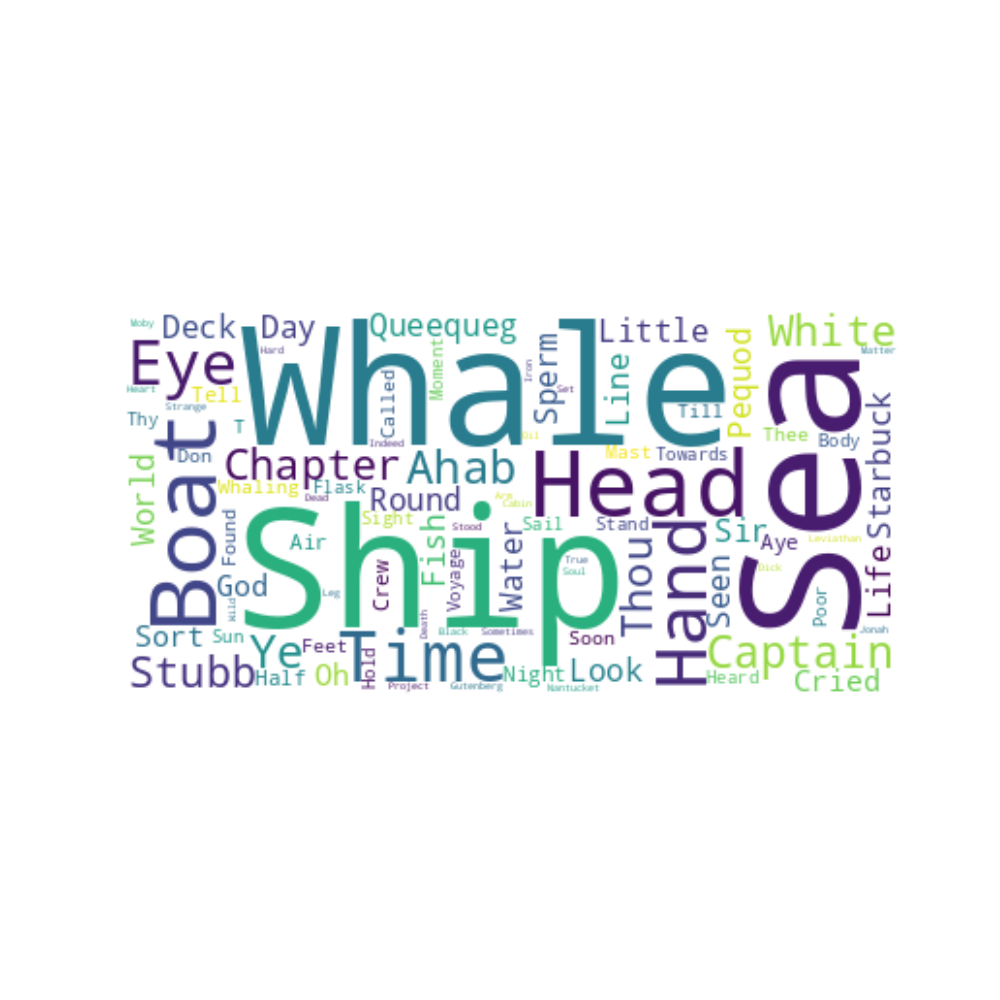
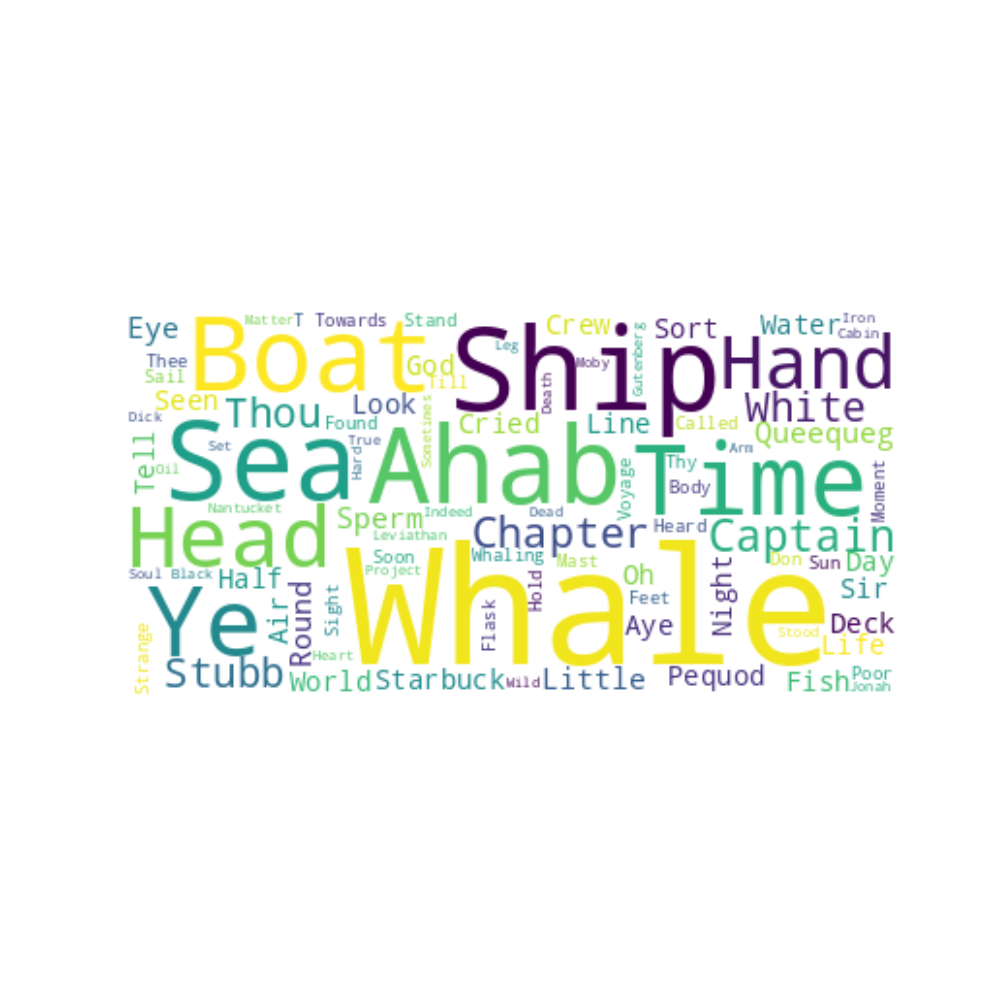
Code comments updated, Code cleaning and readablility increased

Changed region(s): [[0.124, 0.31, 0.899, 0.713]]

diff --git a/main.py b/main.py
@@ -12,7 +12,10 @@ def loading_data():
         stop_words = f.readlines()
     return text_book, stop_words
 
-''' preprocessing stop words taken from its text file to an array'''
+''' 
+stop_words: stop words are in array of text format as read from file
+returns: stop_word_preprocessed: stop_words in list format
+'''
 def preprocessing_stop_words(stop_words):
     stop_word_preprocessed = []
     is_start = False
@@ -22,12 +25,17 @@ def preprocessing_stop_words(stop_words):
             is_start = True
         # if is_start = True depicts stop words can be analysed after 'a' text is analysed in the file.
         # stop words are >= 2 which will ignore "\n" from the list
-        # "stop_word_raw not in stop_word_preprocessed" is used for getting only unique stop words
-        if is_start and len(stop_word_raw) >= 2 and stop_word_raw not in stop_word_preprocessed:
+        # "stop_word_raw not in stop_word_preprocessed" is used for getting only unique stop words len(stop_word_array) == 1 
+        # is used to verify stop word should be of length 1
+        stop_word_array = stop_word_raw.split(' ')
+        if is_start and len(stop_word_raw) >= 2 and stop_word_raw not in stop_word_preprocessed and len(stop_word_array) == 1:
             stop_word_preprocessed.append(stop_word_raw.replace('\n', ''))
     return stop_word_preprocessed
 
-# preprocessing in sentence level
+''' 
+sentence: contains single sentence of a textbook in string format
+returns: preprocessed sentence by removing symbols, making sentence lowercase and splitting sentence into words  
+'''
 def preprocessing_sentence(sentence):
     words_for_removal = ['\n', '  ', '.', '-', '—', ',', '/', '<', '>', '?',':',';','"','“', '”', '’s', '’ll', '{','}','[',
                         ']','!', '@', '#','$', '%', '^', '&', '*', '(', ')', '_', '+', '*', '`', '~', '=']
@@ -36,7 +44,12 @@ def preprocessing_sentence(sentence):
     sentence = sentence.replace('  ', ' ').lower().split(' ')
     return sentence
 
-''' Word cloud of top 100 words '''
+''' 
+frequency_text: depicts words in comma separated format for example if word1 has frequency 2 and word2 has frequency 3 then text will be of the form
+                "word1 word1 word2 word2 word2"
+    
+returns: NA (saves word-cloud in output file)
+'''
 def generate_word_cloud(frequency_text):
     word_cloud = WordCloud(collocations = False, background_color = 'white').generate(frequency_text)
     fig, ax = plt.subplots()
@@ -46,7 +59,11 @@ def generate_word_cloud(frequency_text):
     fig.set_figwidth(10)
     plt.savefig('output/word-cloud.png')
 
-''' Frequency distribution of top 100 words '''
+''' 
+frequency_dict: depicts words and its frequency
+    
+returns: NA (saves frequency-distribution in output file)
+'''
 def generate_frequency_distribution(frequency_dict):
     fig, ax = plt.subplots()
     ax.bar(frequency_dict.keys(), height=frequency_dict.values())
@@ -55,12 +72,14 @@ def generate_frequency_distribution(frequency_dict):
     fig.set_figwidth(25)
     ax.set_title('Frequency Distribution Of Words')
     plt.savefig('output/frequency-distribution.png')
+
+''' 
+text_book: depicts the text of whole text_book and having list of sentences
+stop_word_preprocessed: depicts stop words in list format
     
-def main():
-    text_book, stop_words = loading_data()
-    stop_word_preprocessed = preprocessing_stop_words(stop_words)
-    # these are few words analysed which were causing issue in calculating the actual word count, so these words are removed from 
-    # the sentence 
+returns: words_frequency (all the words with frequency in dictionary format example {word1: frequency1, word2: frequency2})
+'''
+def get_frequency_of_words(text_book, stop_word_preprocessed):
     words_frequency = {}
     for sentence in text_book:
         # preprocessing in sentence level
@@ -74,19 +93,44 @@ def main():
                 words_frequency[word] = 1
             else:
                 words_frequency[word] += 1
-    # sorting the list by frequency
-    frequency_list = [[k,v] for k, v in sorted(words_frequency.items(), key=lambda item: item[1])]
+    return words_frequency
+
+''' 
+sorted_frequency_list: depicts the sorted version of frequency list
+number_of_words: depicts selection of top x words where x = number_of_words
+    
+returns: frequency_text (all the frequenly occuring word in the textual form For example if Word1 appears 5 times and word2 appears 2 times
+                        then the text will be "word1 word1 word1 word1 word1 word2 word2" This is the word cloud's format
+         frequency_dict (all the words with frequency in dictionary format example {word1: frequency1, word2: frequency2})
+     
+'''
+def display_get_top_list(sorted_frequency_list, number_of_words=100):
     frequency_text = ''
     frequency_dict = {}
-    # printing the required list
-    for f_list in reversed(frequency_list[-100:]):
+    for f_list in reversed(sorted_frequency_list[-1*number_of_words:]):
         print("Word:", f_list[0].title(), "Frequency:", f_list[1])
         # creating text for word cloud
-        frequency_text += f_list[0].title() + ' ' * f_list[1]
+        frequency_text += (f_list[0].title() + ' ') * f_list[1]
         frequency_dict[f_list[0].title()] = f_list[1]
+    return frequency_text, frequency_dict
+    
+    
+def main():
+    text_book, stop_words = loading_data()
+    stop_word_preprocessed = preprocessing_stop_words(stop_words)
+    # these are few words analysed which were causing issue in calculating the actual word count, so these words are removed from 
+    # the sentence 
+    words_frequency = get_frequency_of_words(text_book, stop_word_preprocessed)
+
+    # sorting the list by frequency
+    sorted_frequency_list = [[k,v] for k, v in sorted(words_frequency.items(), key=lambda item: item[1])]
+
+    # printing the required list and getting back the frequenly occuring text for visualization
+    frequency_text, frequency_dict = display_get_top_list(sorted_frequency_list, 100)
 
     # creation of word cloud
     generate_word_cloud(frequency_text)
+    # generating frequency distribution of words
     generate_frequency_distribution(frequency_dict)
 
 
